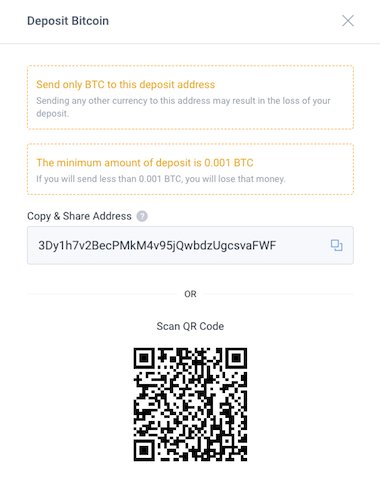
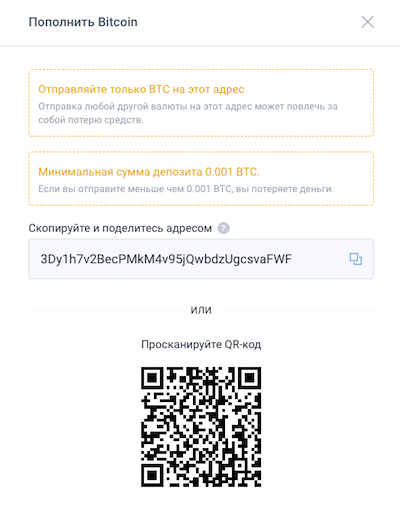
Updates

diff --git a/ru/waves-client/transfers-and-gateways/bitcoin-transfers.md b/ru/waves-client/transfers-and-gateways/bitcoin-transfers.md
@@ -1,59 +1,70 @@
-# How to receive and send Bitcoin
+# **Как отправить и получить Bitcoin**.
 
-Waves allow you to hold and transfer Bitcoin on its blockchain. This works through a so-called Multigateway approach: Bitcoins are sent to a user's deposit address available in the Waves wallet and after the deposit the user receives a Bitcoin token \(wBTC\) on the Waves blockchain. Every single Bitcoin token is backed 1:1 with a real Bitcoin.
+Waves client позволяет хранить и переводить Bitcoin внутри сети Waves. Это возможно благодаря шлюзу: Bitcoin поступают на Bitcoin адрес выданный пользователю в Waves client, а взамен пользователь получает ассет Bitcoin в сети Waves (wBTC). При выводе wBTC из сети Waves пользователь получает Bitcoin из расчета 1:1.
 
-Read more about [What is a payment gateway?](/frequently-asked-questions-faq/transfers-and-gateways/payment-gateway.md)
+Всю исчерпывающую информацию о работе Bitcoin шлюза вы найдёте в этой статье [Что такое платежный шлюз](/ru/frequently-asked-questions-faq/transfers-and-gateways/payment-gateway.md)
 
-## **How to Deposit Bitcoin**
+## **Как получить Bitcoin**.
 
-Open your Waves wallet,  
-In the Bitcoin section, click on the **Receive** button.
+Откройте свой Waves кошелек и в секции Bitcoin нажмите **Получить**.
 
-![](/_assets/bitcoin_transfers_01.png)
+![](/ru/_assets/bitcoin_transfers_01.png)
 
-The following pop-up will appear.  
-Copy the shown Bitcoin address or Scan QR Code and send a payment.  
-Read the conditions carefully in yellow boxes before proceeding.
+В появившемся окне вы увидите Bitcoin адрес.
+Используйте его в качестве адреса получателя, чтобы ввести Bitcoin в свой Waves аккаунт
+А также вы можете просканировать QR-код, в котором зашифрован этот Bitcoin адрес.
+Перед этим внимательно прочитайте условия ввода Bitcoin, которые выделены жёлтой пунктирной линией.
 
-![](/_assets/bitcoin_transfers_02.png)
+![](/ru/_assets/bitcoin_transfers_02.png)
 
 **Note**: Processing can take up to 120 minutes.
 
-## **How to send Bitcoin**
+**Внимание**: процесс ввода BTC в ваш Waves аккаунт может занять до 120 минут.
 
-Open your Waves wallet,  
-In the Bitcoin section, click on the **Send** button.
+## **Как отправить Bitcoin**.
 
-![](/_assets/bitcoin_transfers_01.png)
+Откройте ваш Waves кошелек и в Bitcoin секции нажмите **Отправить**.
 
-The following pop-up will appear.  
-Paste the Bitcoin address you want to send to as well as the amount of Bitcoin.  
-Please note that the gateway charges 0.001 BTC for the gateway fee as well as 0.001 Waves for the network fee. Read the conditions carefully in yellow boxes before proceeding.
+![](/ru/_assets/bitcoin_transfers_01.png)
 
-After you have filled the form, click on the **Continue** buttonn.
+В появившемся окне введите:
 
-![](/_assets/bitcoin_transfers_04.png)
+- в строку Получатель Bitcoin адрес получателя;
+- в строку Количество сумму Bitcoin, которую вы хотите отправить на Bitcoin адрес Получателя.
 
-The following pop-up will appear.  
-To complete the operation, click on the **Confirm** or **Back** to repeat the process.
+**Будьте внимательны**: комиссия Bitcoin шлюза за обработку транзакции составляет 0,001 BTC, а комиссия сети Waves за проведение транзакции составляет 0,001 Waves.
+Внимательно прочитайте условия вывода Bitcoin, которые выделены жёлтой пунктирной линией.
 
-![](/_assets/bitcoin_transfers_05.png)
+После заполнения всех строк и прочтения условия нажмите **Продолжить**.
 
-**Note**: Processing can take up to 120 minutes, the minimum amount is 0.002 BTC.
+![](/ru/_assets/bitcoin_transfers_04.png)
 
-## **How to create internal transaction through Waves network**
+Ещё раз проверьте данные транзакции в появившемся окне.
+Если все данные верны нажмите **Подтвердить**. Для корректировки данных нажмите **Назад**.
 
-You can send Bitcoins directly to another Waves account, just use the recipient Waves address, click on Send and fill-in the sending form.
+![](/ru/_assets/bitcoin_transfers_05.png)
 
-**Note.** The network fee is only 0.001 Waves \(no gateway fee\)
+**Внимание**: процесс вывода Bitcoin из Waves аккаунта может занять до 120 минут.
 
-![](/_assets/bitcoin_transfers_01.png)
+## **Как перевести Bitcoin в другой Waves аккаунт**.
 
-After you have completed the form, click on the **Continue** button.
+Откройте ваш Waves кошелек и в Bitcoin секции нажмите Отправить.
 
-![](/_assets/bitcoin_transfers_07.png)
+![](/ru/_assets/bitcoin_transfers_01.png)
 
-The following pop-up will appear.  
-To complete the operation, click on the **Confirm** or **Back** to repeat the process.
+В появившемся окне введите:
 
-![](/_assets/bitcoin_transfers_08.png)
+- в строку Получатель Waves адрес получателя;
+- в строку Количество сумму Bitcoin, которую вы хотите отправить на Waves адрес Получателя.
+
+Будьте внимательны: комиссия сети Waves за проведение транзакции составит 0,001 Waves.
+
+После заполнения всех строк нажмите **Продолжить**.
+
+![](/ru/_assets/bitcoin_transfers_07.png)
+
+Ещё раз проверьте данные транзакции в появившемся окне.
+
+Если все данные верны нажмите **Подтвердить**. Для корректировки данных нажмите **Назад**.
+
+![](/ru/_assets/bitcoin_transfers_08.png)
